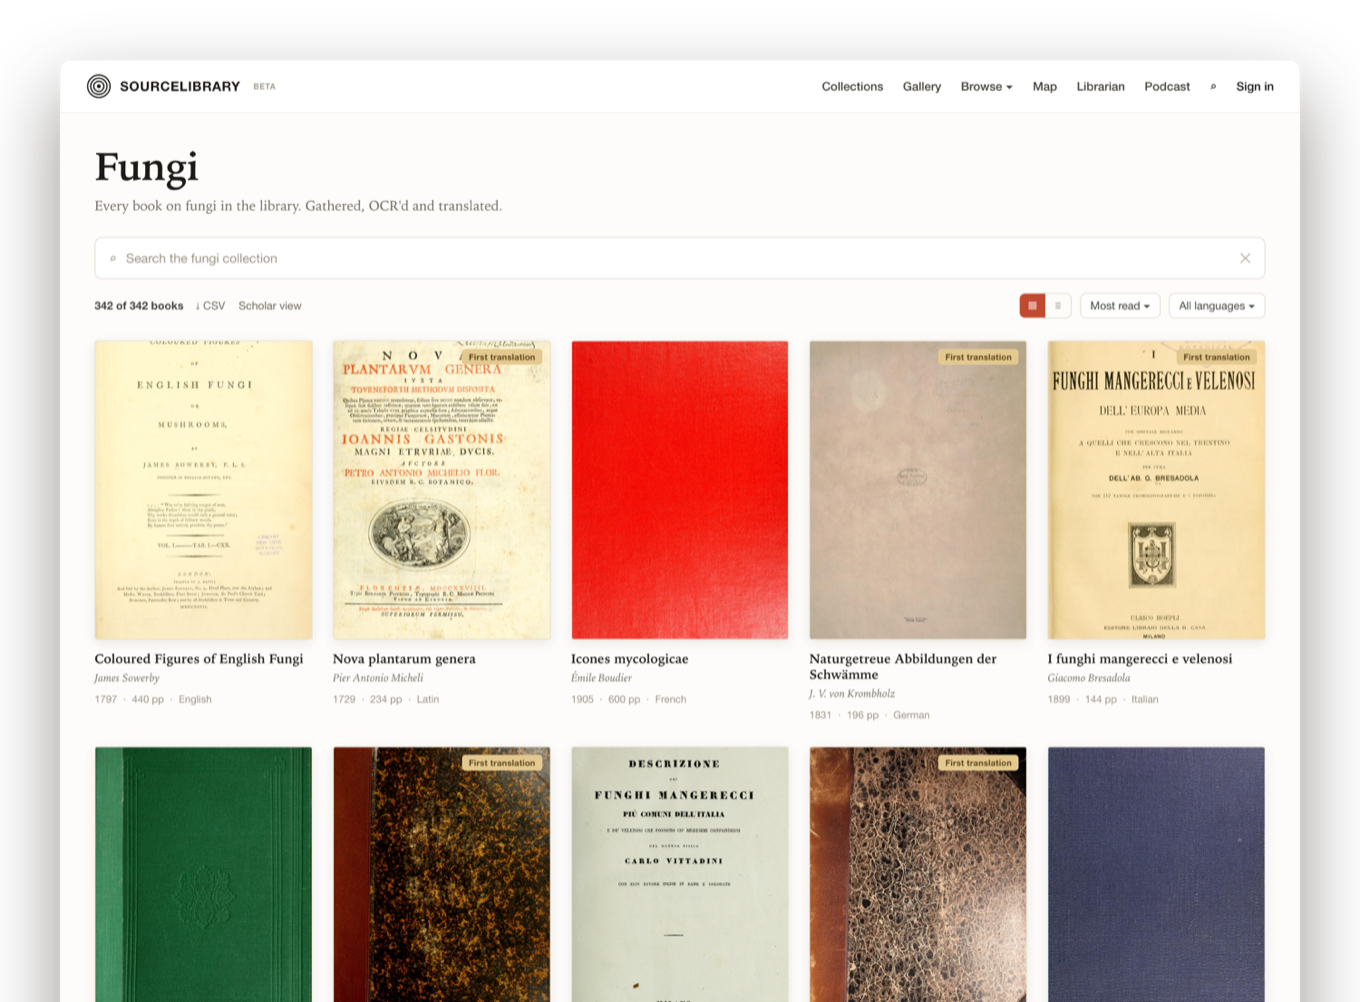
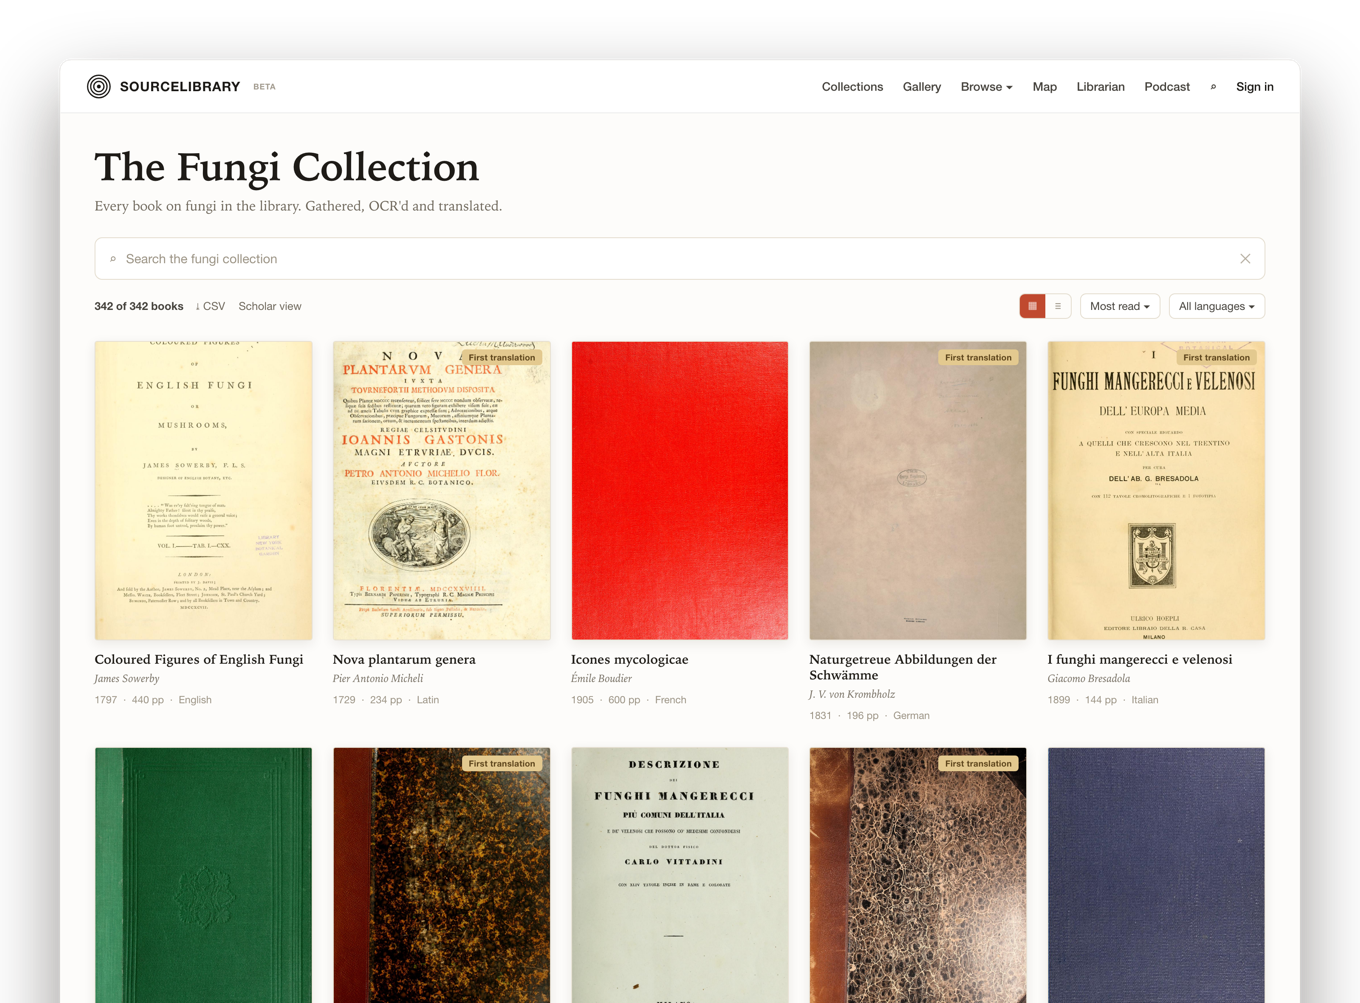
Fungi 60 books + algo card + mobile fixes (studio touch/scroll, theremin)
- Fungi Source collection grows to 60 books (added 26 verified public-domain
  titles, Clusius 1601 → Rolfe 1925; Latin/Dutch/French/Italian/German/English;
  slime moulds, microfungi, spore science, women naturalists). Hi-res IA covers.
- Source Library hero mockup title → "The Fungi Collection".
- Algorithms V2 card image: captured strange-attractors full-bleed (1600x900).
- Studio mobile fixes (Algo Lab + SMA Config): canvas touch-action none → pan-y so
  the page scrolls when touched; about text wraps (overflow-wrap/word-break);
  shorter visual + full-width selector on mobile.
- Home theremin: unlock the AudioContext synchronously on the first pad touch so
  mobile plays on touch instead of needing the power button (iOS gesture fix).

Changed region(s): [[0.0618, 0.1547, 0.3706, 0.1856], [0.0618, 0.0619, 0.0926, 0.0928]]

diff --git a/content/fungi-source.ts b/content/fungi-source.ts
@@ -54,6 +54,32 @@ export const FUNGI_BOOKS: FungiBook[] = [
   { title: "Icones mycologicae", author: "Émile Boudier", year: "1905–10", language: "French", note: "Some six hundred exquisite colour plates of European fungi.", rights: "Public domain", source: "Internet Archive", url: ia("iconesmycologic02boud"), image: cover("iconesmycologic02boud") },
   { title: "A Text-book of Fungi", author: "George Massee", year: "1906", language: "English", note: "A systematic text-book — morphology, physiology and classification.", rights: "Public domain", source: "Internet Archive", url: ia("textbookoffungii00massuoft"), image: cover("textbookoffungii00massuoft") },
   { title: "The Mushroom, Edible and Otherwise", author: "Miron Elisha Hard", year: "1908", language: "English", note: "A thorough, photo-illustrated American manual.", rights: "Public domain", source: "Internet Archive", url: ia("mushroomedibleot00harduoft"), image: cover("mushroomedibleot00harduoft") },
+  { title: "Rariorum plantarum historia", author: "Carolus Clusius", year: "1601", language: "Latin", note: "Contains Clusius's pioneering Fungorum historia — among the very first fungal treatises.", rights: "Public domain", source: "Internet Archive", url: ia("caroliclusiatre00clus"), image: cover("caroliclusiatre00clus") },
+  { title: "Theatrum Fungorum", author: "Franciscus van Sterbeeck", year: "1675", language: "Dutch", note: "One of the earliest printed mushroom books â the Flemish “theatre of fungi”.", rights: "Public domain", source: "Internet Archive", url: ia("mobot31753000540531"), image: cover("mobot31753000540531") },
+  { title: "Fungorum agri Ariminensis historia", author: "Giovanni Antonio Battarra", year: "1755", language: "Latin", note: "A finely engraved regional flora of the Rimini fungi — 40 copperplates.", rights: "Public domain", source: "Internet Archive", url: ia("fungorumagriari00batt"), image: cover("fungorumagriari00batt") },
+  { title: "Scottish Cryptogamic Flora", author: "Robert Kaye Greville", year: "1823–28", language: "English", note: "360 hand-coloured plates of Scottish fungi and cryptogams.", rights: "Public domain", source: "Internet Archive", url: ia("scottishcryptog05grevgoog"), image: cover("scottishcryptog05grevgoog") },
+  { title: "Figures des champignons", author: "J. B. L. Letellier", year: "1839", language: "French", note: "A companion plate volume extending Bulliard's iconography.", rights: "Public domain", source: "Internet Archive", url: ia("figuresdeschampi00lete"), image: cover("figuresdeschampi00lete") },
+  { title: "Histoire des champignons comestibles et vénéneux", author: "Joseph Roques", year: "1841", language: "French", note: "A classic illustrated French treatise on edible vs poisonous fungi.", rights: "Public domain", source: "Internet Archive", url: ia("b24923527_0001"), image: cover("b24923527_0001") },
+  { title: "Iconographie des champignons de Paulet", author: "J. H. Léveillé", year: "1855", language: "French", note: "217 engraved and coloured plates — a landmark mushroom atlas.", rights: "Public domain", source: "Internet Archive", url: ia("iconographiedesc00lv"), image: cover("iconographiedesc00lv") },
+  { title: "Outlines of British Fungology", author: "Miles Joseph Berkeley", year: "1860", language: "English", note: "The first comprehensive systematic handbook of British fungi.", rights: "Public domain", source: "Internet Archive", url: ia("outlinesofbritis00berk"), image: cover("outlinesofbritis00berk") },
+  { title: "Selecta Fungorum Carpologia", author: "L.-R. & C. Tulasne", year: "1861", language: "Latin", note: "The Tulasne brothers' landmark carpology of microfungi, finely engraved.", rights: "Public domain", source: "Internet Archive", url: ia("mobot31753000797784"), image: cover("mobot31753000797784") },
+  { title: "Illustrations of the Fungi of Our Fields and Woods", author: "Sarah Price", year: "1864", language: "English", note: "A hand-illustrated British fungi folio by a 19th-c woman naturalist.", rights: "Public domain", source: "Internet Archive", url: ia("illustrationsfu00pric"), image: cover("illustrationsfu00pric") },
+  { title: "Funghi siciliani", author: "Giuseppe Inzenga", year: "1865", language: "Italian", note: "A classic regional study of the edible and poisonous fungi of Sicily.", rights: "Public domain", source: "Internet Archive", url: ia("funghisiciliani00inze"), image: cover("funghisiciliani00inze") },
+  { title: "Les champignons de la France", author: "François Simon Cordier", year: "1870", language: "French", note: "A comprehensive 19th-c French field guide with hand-coloured plates.", rights: "Public domain", source: "Internet Archive", url: ia("leschampignonsde00cord"), image: cover("leschampignonsde00cord") },
+  { title: "British Fungi (Hymenomycetes)", author: "John Stevenson", year: "1886", language: "English", note: "A major two-volume descriptive flora of British gilled and pored fungi.", rights: "Public domain", source: "Internet Archive", url: ia("hymenomycetesbri00stevrich"), image: cover("hymenomycetesbri00stevrich") },
+  { title: "British Edible Fungi", author: "Mordecai Cubitt Cooke", year: "1891", language: "English", note: "A classic British popular edible-mushroom manual with colour plates.", rights: "Public domain", source: "Internet Archive", url: ia("britishediblefun00cook"), image: cover("britishediblefun00cook") },
+  { title: "British Fungus-Flora", author: "George Massee", year: "1892–95", language: "English", note: "A four-volume classified text-book — a standard British reference flora.", rights: "Public domain", source: "Internet Archive", url: ia("britishfungusflo01mass"), image: cover("britishfungusflo01mass") },
+  { title: "Mushrooms and Their Use", author: "Charles H. Peck", year: "1897", language: "English", note: "An accessible popular guide by New York's influential state botanist.", rights: "Public domain", source: "Internet Archive", url: ia("mushroomstheirus00peck"), image: cover("mushroomstheirus00peck") },
+  { title: "Mycological Writings, Vol. 1", author: "Curtis Gates Lloyd", year: "1898–1905", language: "English", note: "Lloyd's eccentric, combative, encyclopedic privately-printed notes.", rights: "Public domain", source: "Internet Archive", url: ia("mycologicalwriti01lloy"), image: cover("mycologicalwriti01lloy") },
+  { title: "Moulds, Mildews, and Mushrooms", author: "Lucien M. Underwood", year: "1899", language: "English", note: "An early American systematic teaching guide to fungi and Mycetozoa.", rights: "Public domain", source: "Internet Archive", url: ia("mouldsmildewsmus00unde"), image: cover("mouldsmildewsmus00unde") },
+  { title: "Researches on Fungi", author: "A. H. Reginald Buller", year: "1909", language: "English", note: "A landmark scientific study of spore discharge and dispersal.", rights: "Public domain", source: "Internet Archive", url: ia("researchesonfung01bull"), image: cover("researchesonfung01bull") },
+  { title: "A Monograph of the Mycetozoa", author: "Arthur & Gulielma Lister", year: "1911", language: "English", note: "The classic slime-mould monograph, with 78+ plates.", rights: "Public domain", source: "Internet Archive", url: ia("monographofmycet00brituoft"), image: cover("monographofmycet00brituoft") },
+  { title: "Die Blätterpilze (Agaricaceae) Deutschlands", author: "Adalbert Ricken", year: "1915", language: "German", note: "The standard German agaric monograph, with plates.", rights: "Public domain", source: "Internet Archive", url: ia("dieblatterpilze0000adal"), image: cover("dieblatterpilze0000adal") },
+  { title: "Mushrooms and Other Common Fungi", author: "Flora Patterson & Vera Charles", year: "1915", language: "English", note: "A practical USDA guide by two pioneering women mycologists.", rights: "Public domain", source: "Internet Archive", url: ia("mushroomsotherco175patt"), image: cover("mushroomsotherco175patt") },
+  { title: "Edible and Poisonous Mushrooms", author: "William A. Murrill", year: "1916", language: "English", note: "A widely used American field handbook by the NYBG mycologist.", rights: "Public domain", source: "Internet Archive", url: ia("ediblepoisonous00murr"), image: cover("ediblepoisonous00murr") },
+  { title: "The Agaricaceae of Michigan", author: "C. H. Kauffman", year: "1918", language: "English", note: "A landmark regional flora — a standard North American agaric monograph.", rights: "Public domain", source: "Internet Archive", url: ia("agaricaceaeofmic01kauf"), image: cover("agaricaceaeofmic01kauf") },
+  { title: "Common Mushrooms of the United States", author: "L. C. C. Krieger", year: "1920", language: "English", note: "A USDA-illustrated popular national guide by a noted mushroom illustrator.", rights: "Public domain", source: "Internet Archive", url: ia("commonmushroomso00krieuoft"), image: cover("commonmushroomso00krieuoft") },
+  { title: "The Romance of the Fungus World", author: "R. T. & F. W. Rolfe", year: "1925", language: "English", note: "A popular cultural and folklore account of fungi by BMS members.", rights: "Public domain", source: "Internet Archive", url: ia("romanceoffungusw00rolf"), image: cover("romanceoffungusw00rolf") },
 ];
 
 export type FungiPlate = { src: string; caption: string; link: string };

diff --git a/components/studio/StudioShell.tsx b/components/studio/StudioShell.tsx
@@ -38,8 +38,11 @@ export const STUDIO_CSS = `
 .studio-presetbar button:hover { border-color: rgba(255,255,255,0.6); }
 
 /* the visual — expands to fill the space; the sim covers it via object-fit */
-.studio-visual { position: relative; width: 100%; height: min(86vh, 1040px); border: 1px solid var(--line); border-radius: 10px; overflow: hidden; background: #000; touch-action: none; }
-.studio-visual canvas { position: absolute; inset: 0; width: 100%; height: 100%; display: block; object-fit: cover; object-position: center; image-rendering: auto; touch-action: none; }
+/* touch-action: pan-y lets the page scroll vertically when a finger lands on the
+   visual (touch-action:none used to trap the touch and block scrolling on mobile);
+   horizontal drags still reach interactive systems. */
+.studio-visual { position: relative; width: 100%; height: min(86vh, 1040px); border: 1px solid var(--line); border-radius: 10px; overflow: hidden; background: #000; touch-action: pan-y; }
+.studio-visual canvas { position: absolute; inset: 0; width: 100%; height: 100%; display: block; object-fit: cover; object-position: center; image-rendering: auto; touch-action: pan-y; }
 .studio-visual::after { content: ""; position: absolute; inset: 0; pointer-events: none; background: radial-gradient(ellipse 88% 88% at 50% 50%, transparent 60%, rgba(0,0,0,0.45) 100%); z-index: 1; }
 
 /* action buttons — over the visual, top-right (RESTART / RANDOMISE / etc.) */
@@ -84,7 +87,8 @@ export const STUDIO_CSS = `
 .studio-paneltoggle .caret { color: var(--fg-dim); }
 .studio-panelbody { margin-top: clamp(18px, 2.4vw, 30px); }
 .studio-panelbody.hidden { display: none; }
-.studio-about-body { color: var(--fg-dim); font-size: clamp(13px, 1vw, 15px); line-height: 1.65; }
+.studio-about-body { color: var(--fg-dim); font-size: clamp(13px, 1vw, 15px); line-height: 1.65; overflow-wrap: anywhere; word-break: break-word; }
+.studio-about-cols > * { min-width: 0; }
 .studio-about-lead { max-width: 72ch; font-size: clamp(15px, 1.25vw, 18px); line-height: 1.55; color: var(--fg); margin: 0 0 clamp(22px, 3vw, 36px); }
 .studio-about-cols { display: grid; grid-template-columns: 1fr 1fr; gap: clamp(28px, 4vw, 80px); max-width: 90ch; }
 .studio-about-body h4 { color: var(--fg); font: 700 10px var(--font-mono); letter-spacing: 0.18em; text-transform: uppercase; margin: 0 0 13px; }
@@ -102,10 +106,11 @@ export const STUDIO_CSS = `
 
 @media (max-width: 860px) {
   .studio-grid { grid-template-columns: 1fr; gap: 16px; }
-  .studio-visual { height: min(72vh, 680px); }
+  .studio-visual { height: min(58vh, 520px); }
   .studio-side { position: static; top: auto; }
   .studio-ctrltoggle { display: inline-flex; }
   .studio-about-cols { grid-template-columns: 1fr; gap: clamp(20px, 5vw, 32px); }
+  .studio-selectbar select { min-width: 0; width: 100%; }
 }
 `;
 

diff --git a/components/projects/instruments/engine/instruments/thereminMini.ts b/components/projects/instruments/engine/instruments/thereminMini.ts
@@ -442,8 +442,15 @@ export function mountMini(root: HTMLElement): () => void {
   }
   const onDown = async (e: PointerEvent) => {
     if (activePointer !== null) return;
+    // Unlock audio SYNCHRONOUSLY, first thing in the gesture. On mobile (iOS) a
+    // resume() buried behind awaits loses the user-gesture context, so the first
+    // pad touch was silent until the power button (a direct gesture) resumed it.
+    if (!ctx) ctx = new (window.AudioContext || (window as unknown as { webkitAudioContext: typeof AudioContext }).webkitAudioContext)();
+    if (ctx.state !== "running") ctx.resume().catch(() => {});
     touchLabel.style.opacity = "0"; // they touched — drop the invitation
-    activePointer = e.pointerId; field.setPointerCapture(e.pointerId); e.preventDefault();
+    activePointer = e.pointerId;
+    try { field.setPointerCapture(e.pointerId); } catch { /* capture unsupported */ }
+    e.preventDefault();
     await begin(e.clientX, e.clientY);
   };
   const onMove = (e: PointerEvent) => { if (e.pointerId === activePointer) update(e.clientX, e.clientY); };

diff --git a/lib/projects.ts b/lib/projects.ts
@@ -60,6 +60,7 @@ export const PERSONAL_PROJECTS: PersonalProject[] = [
     year: "2026",
     tags: ["Generative", "WebGL", "TypeScript"],
     href: "/projects/algorithm-lab",
+    image: "/cards/algorithm-lab.jpg",
   },
   {
     slug: "symcyto",